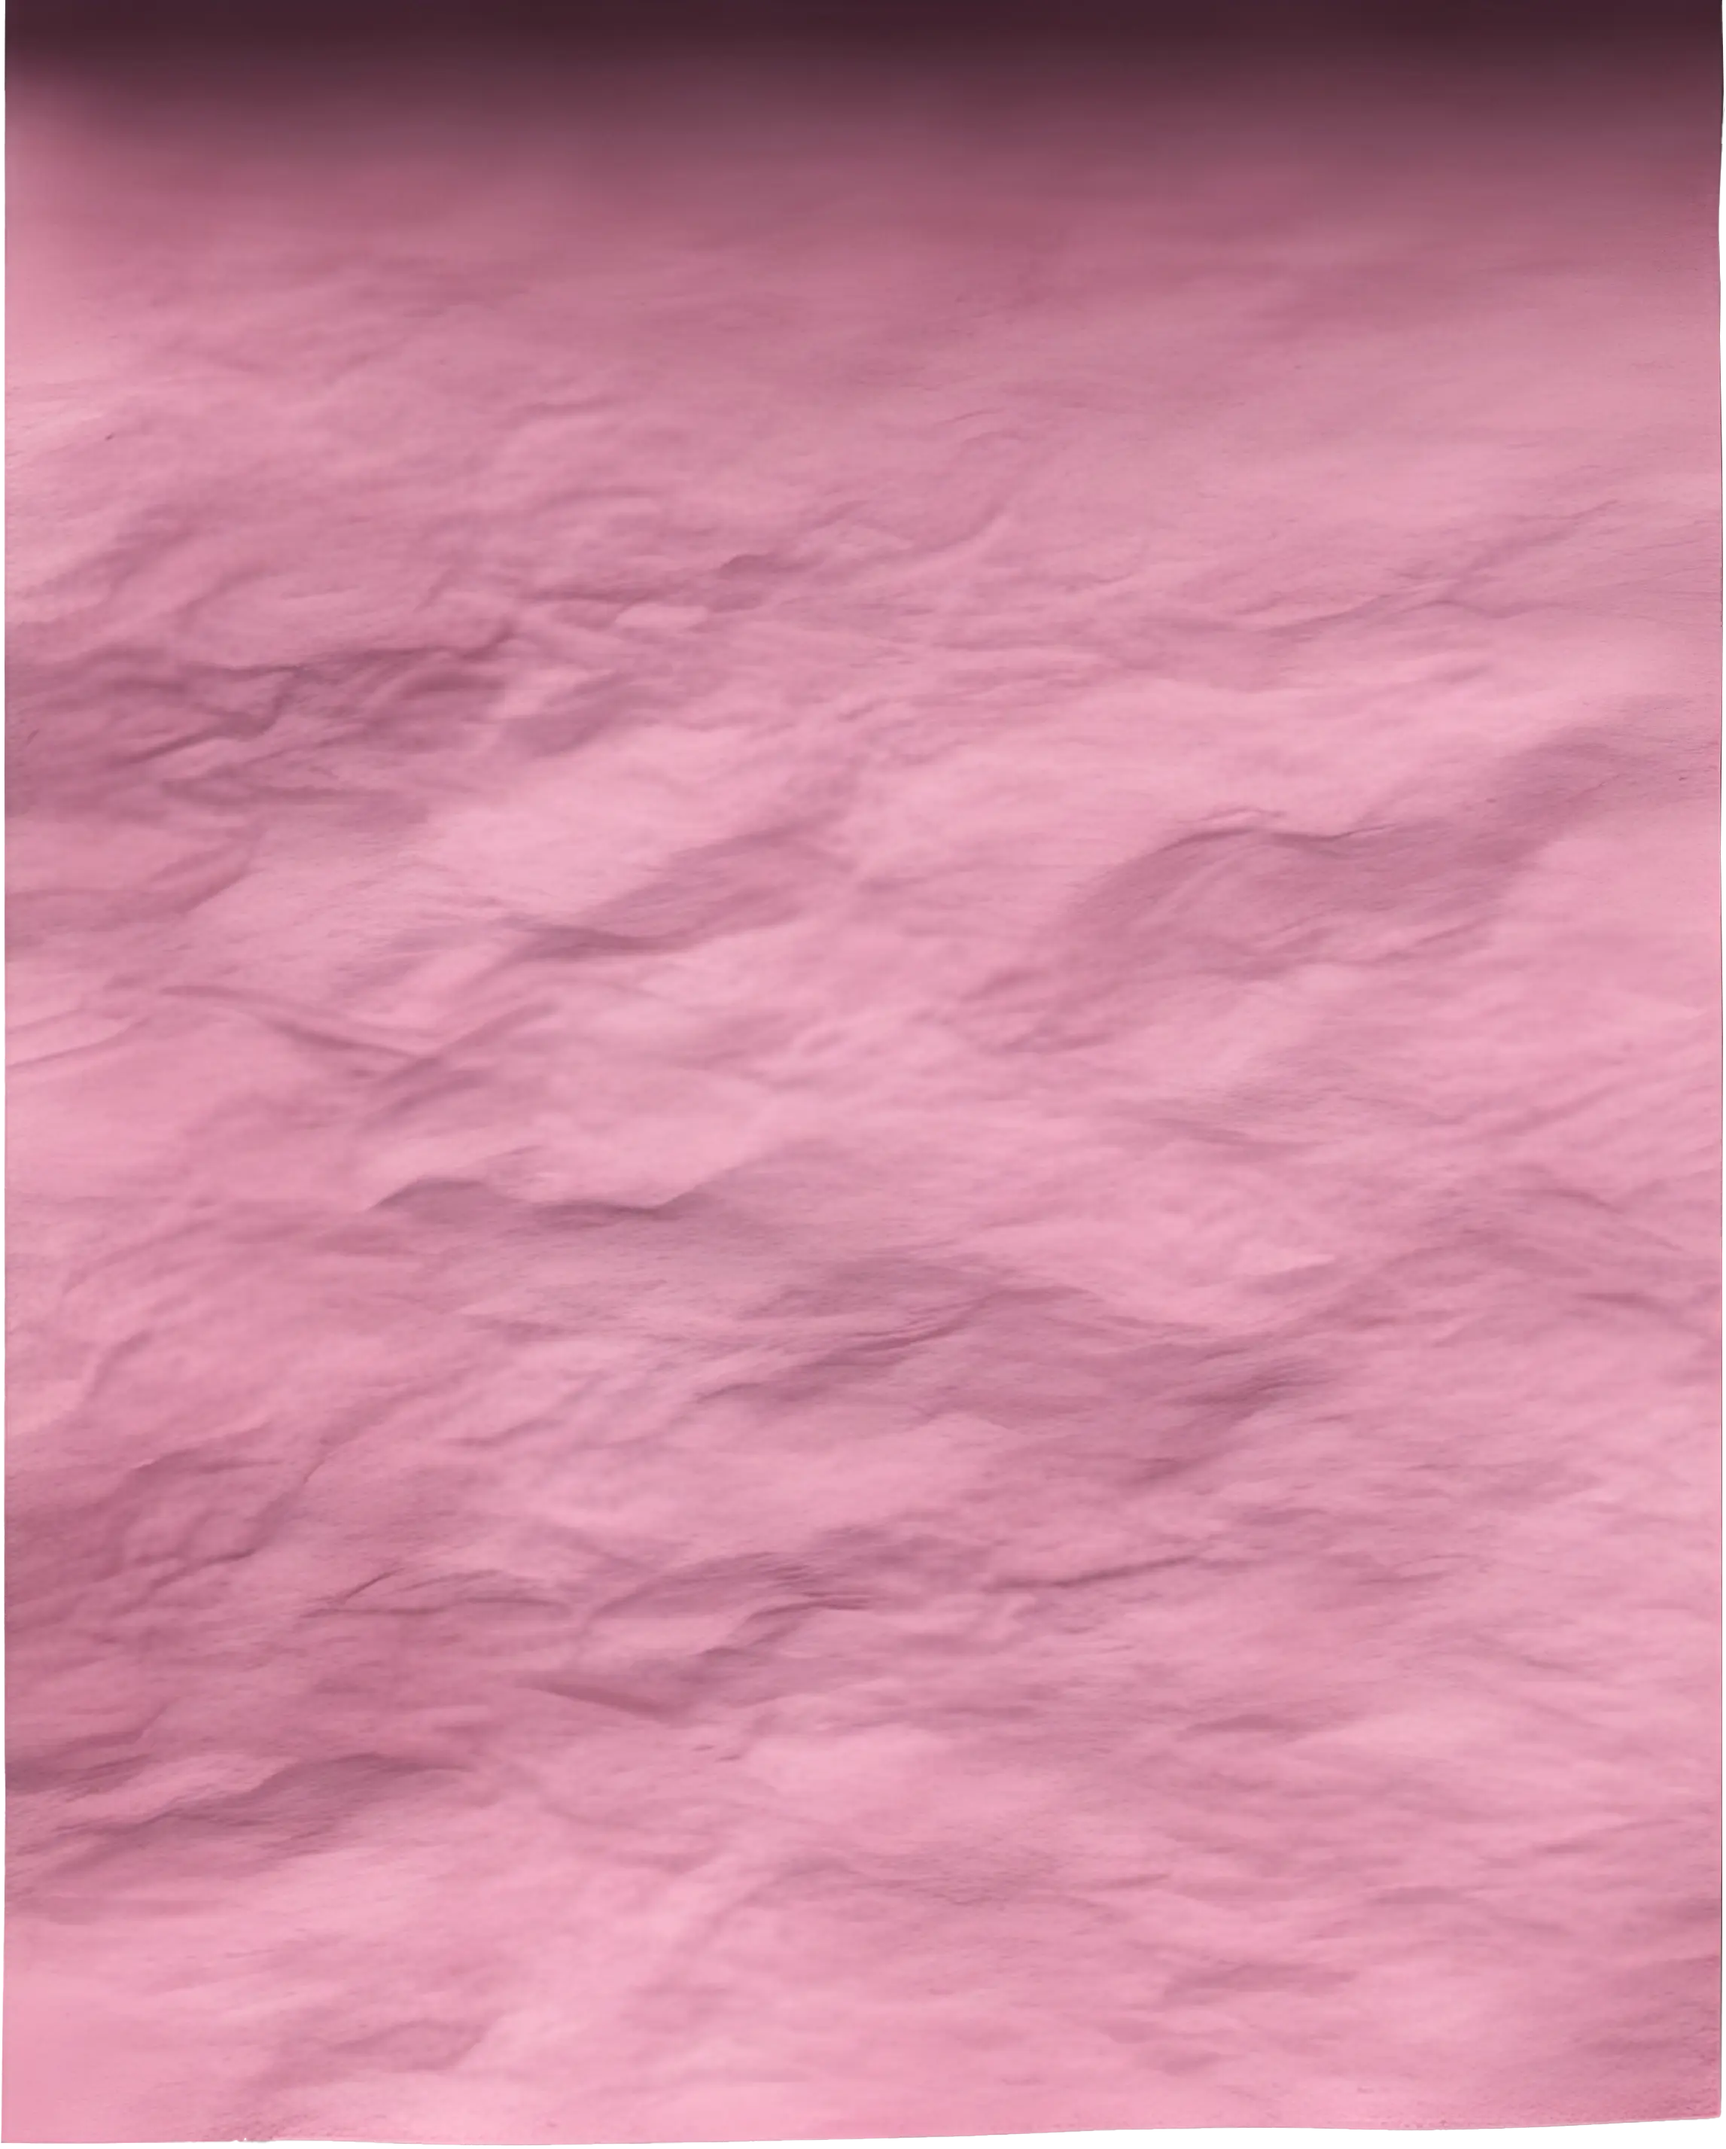
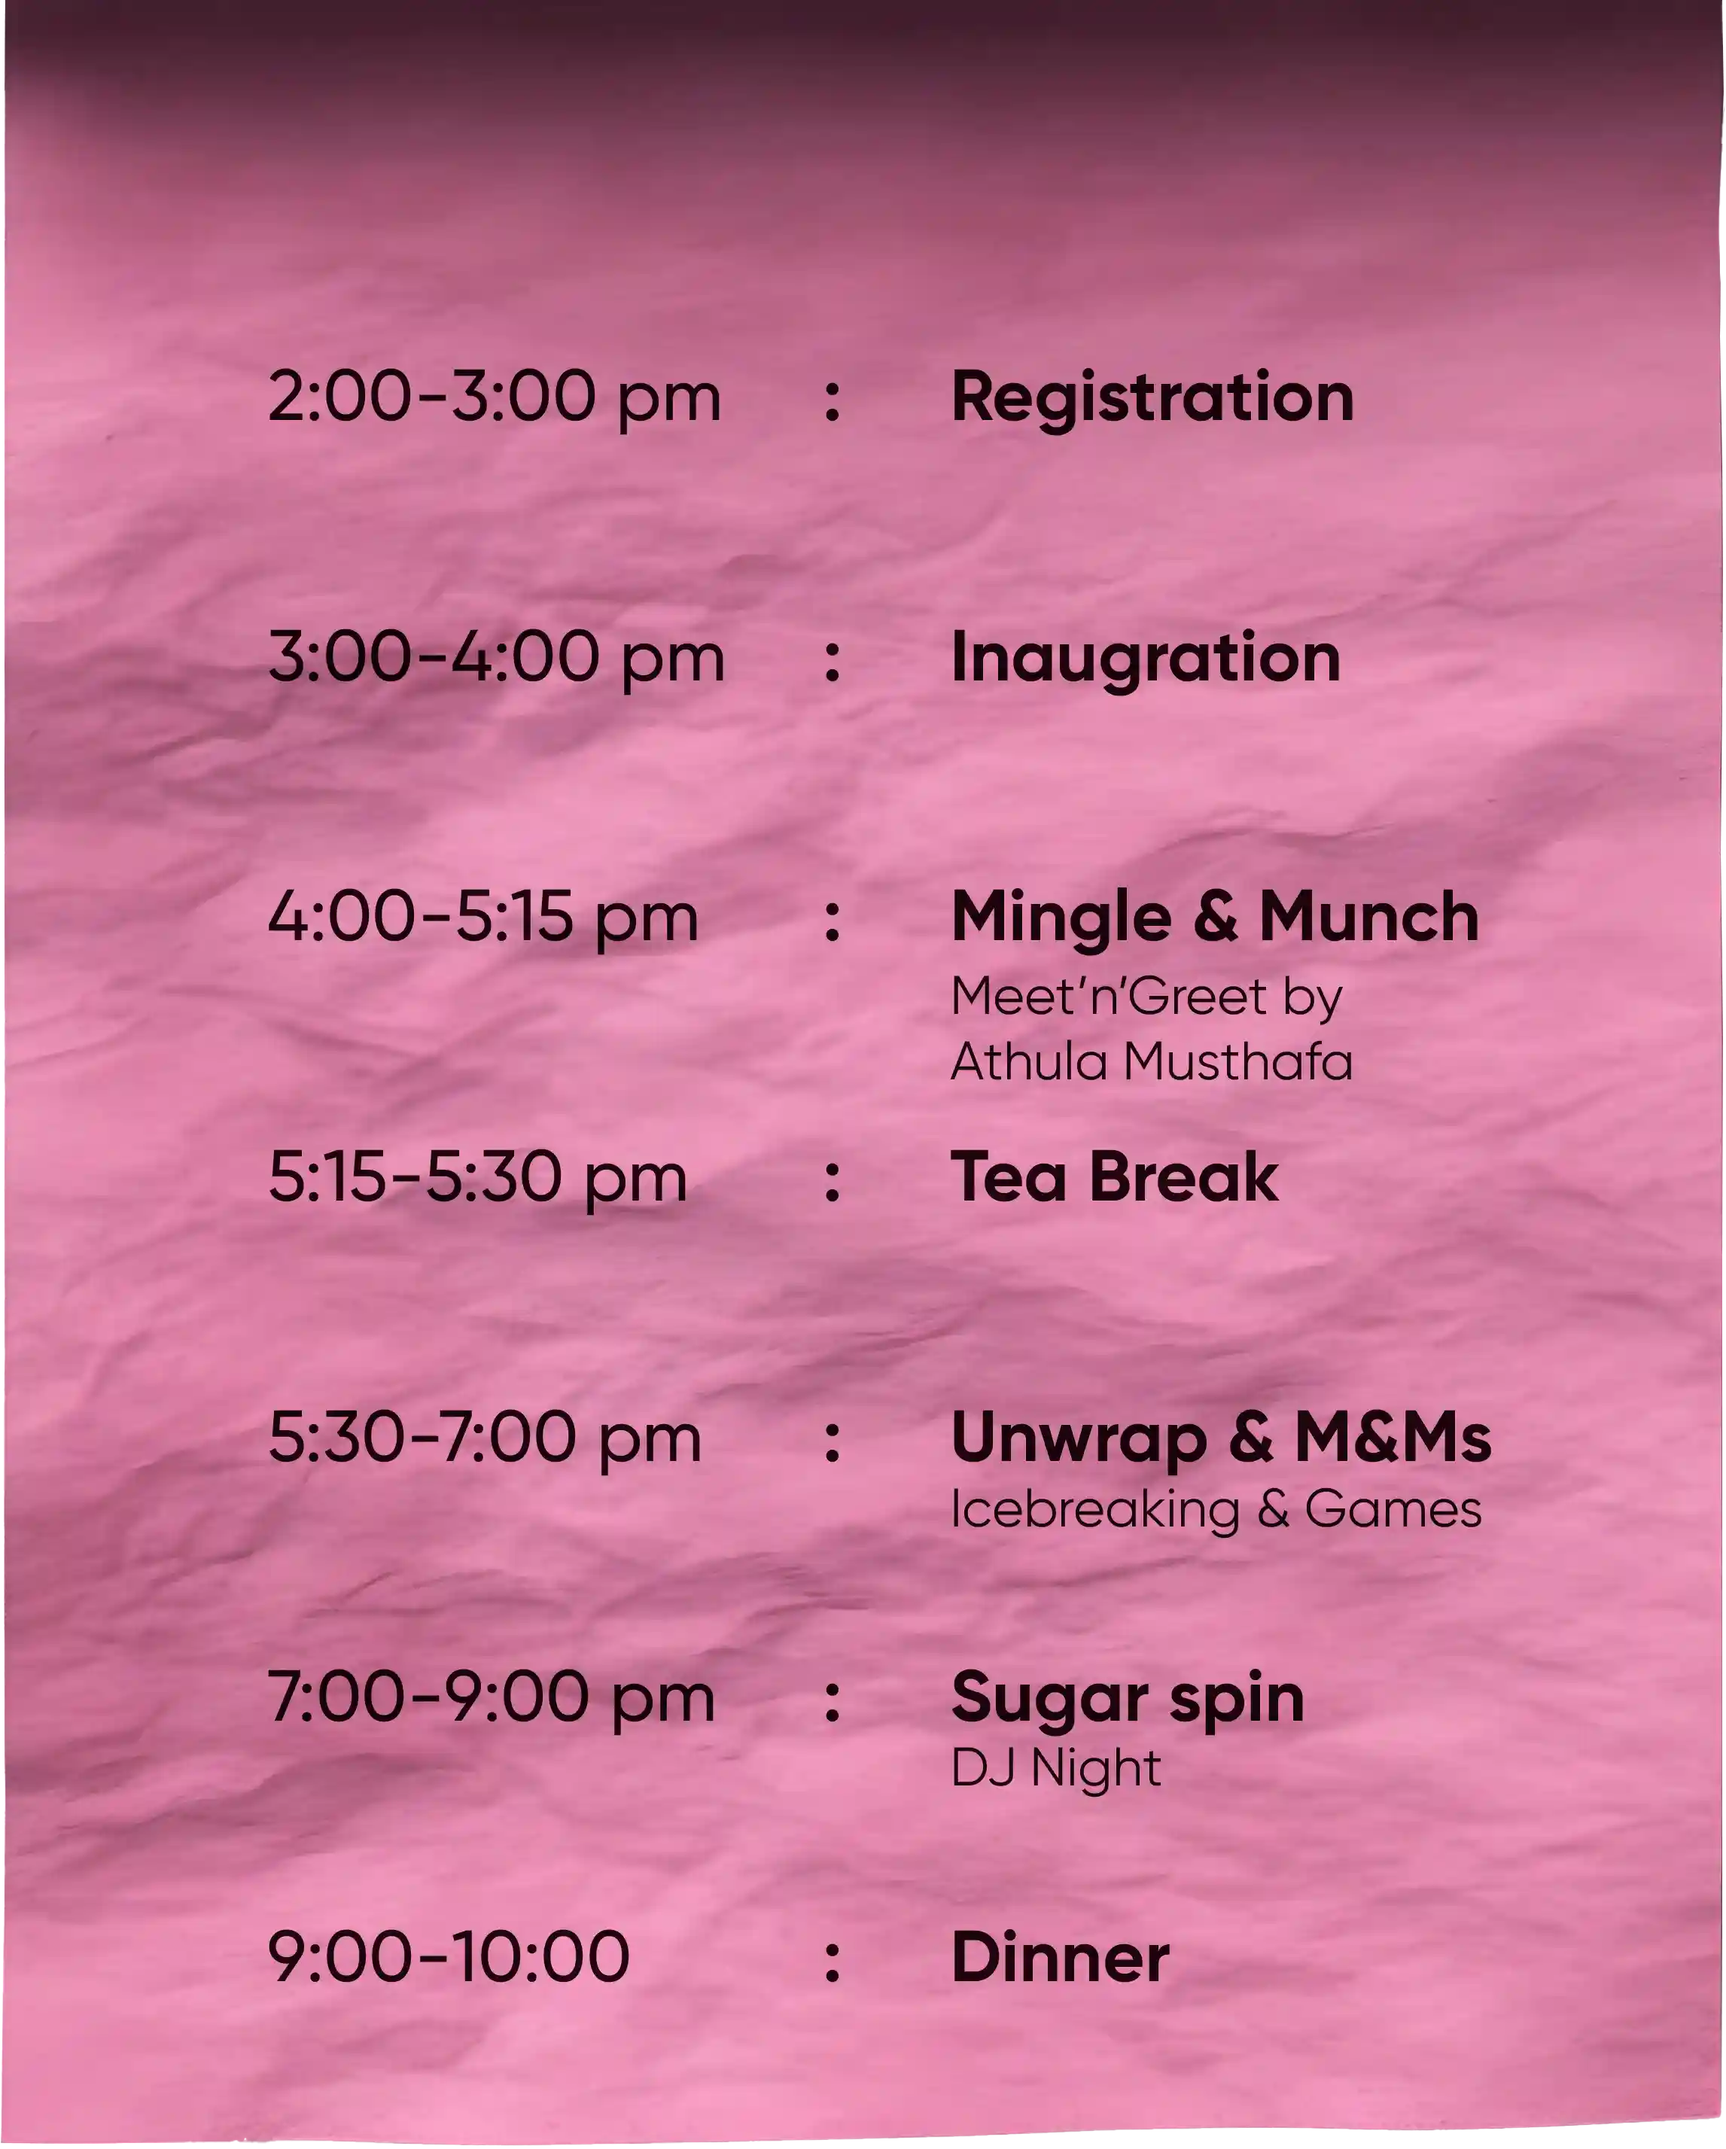
update: schedule

diff --git a/index.html b/index.html
@@ -174,6 +174,20 @@
                       </div>
                     </div>
                   </div>
+                  <div class="col-md-4 d-flex align-items-center justify-content-center mb-5">
+                      <div class="flip-card" data-aos="fade-up-left">
+                      <div class="flip-card-inner">
+                        <div class="flip-card-front">
+                          <img src="./assets/speakers/athula-01.png" class="img-fluid" alt="Avatar" >
+                        </div>
+                        <div class="flip-card-back">
+                          <h1 class="fs-1">Athula Musthafa</h1>
+                          <p>She is a versatile professional, serving as a Radio Jockey at club FM, a Dental Surgeon, and a Video Journalist contributing to Mathrubhumi and Grihalakshmi.</p>
+                          
+                        </div>
+                      </div>
+                    </div>
+                  </div>
               </div>
           </div>
      </section>
@@ -261,7 +275,7 @@
                   <div class="collapse sched1 border-0" data-aos="fade-right" id="day1">
                     
                   </div>
-                  <h1 class="" data-aos="zoom-in">DAY 2</h1>
+                  <h1 class="mt-5" data-aos="zoom-in">DAY 2</h1>
                   <div class="scrollHead" data-aos="fade-right" data-bs-toggle="collapse" data-bs-target="#day2" aria-expanded="false" aria-controls="collapseExample">
                         
                   </div>
